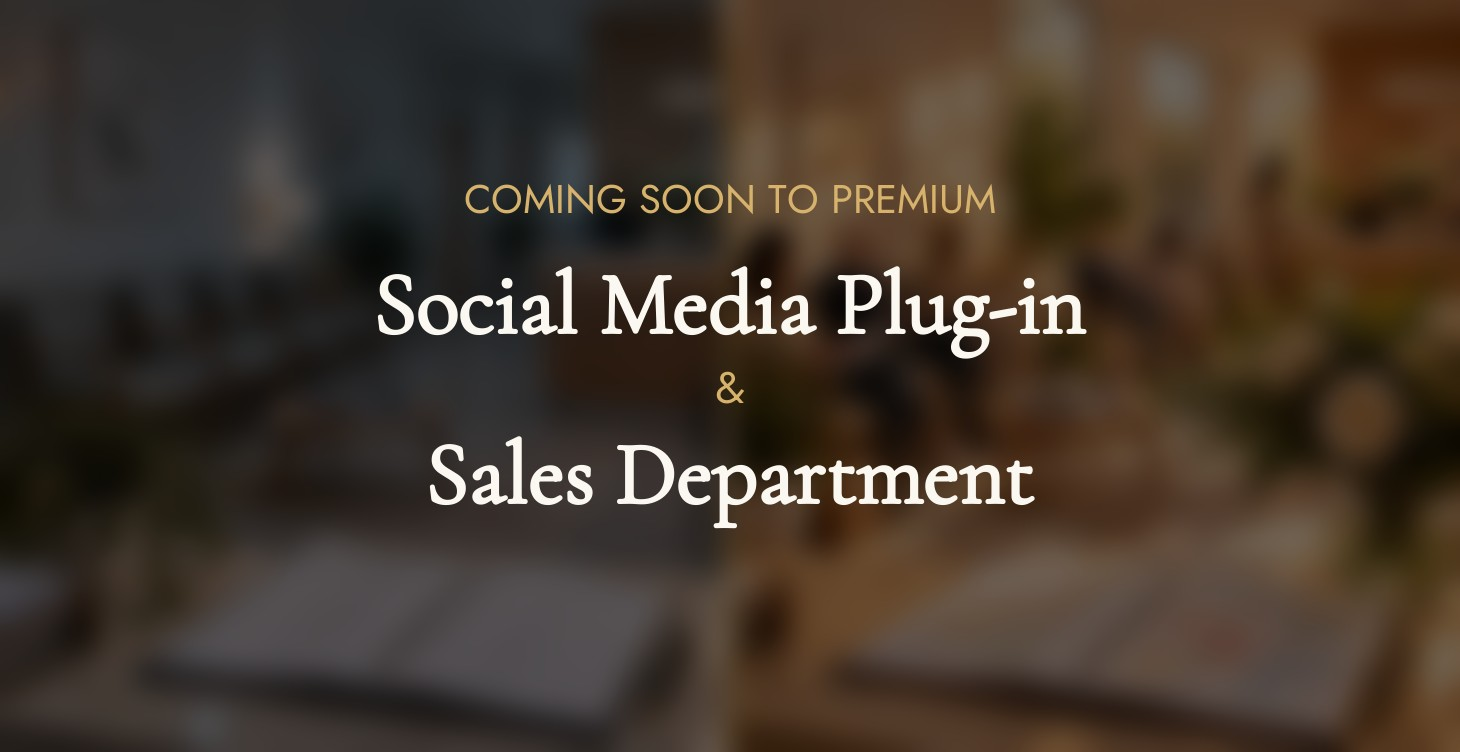
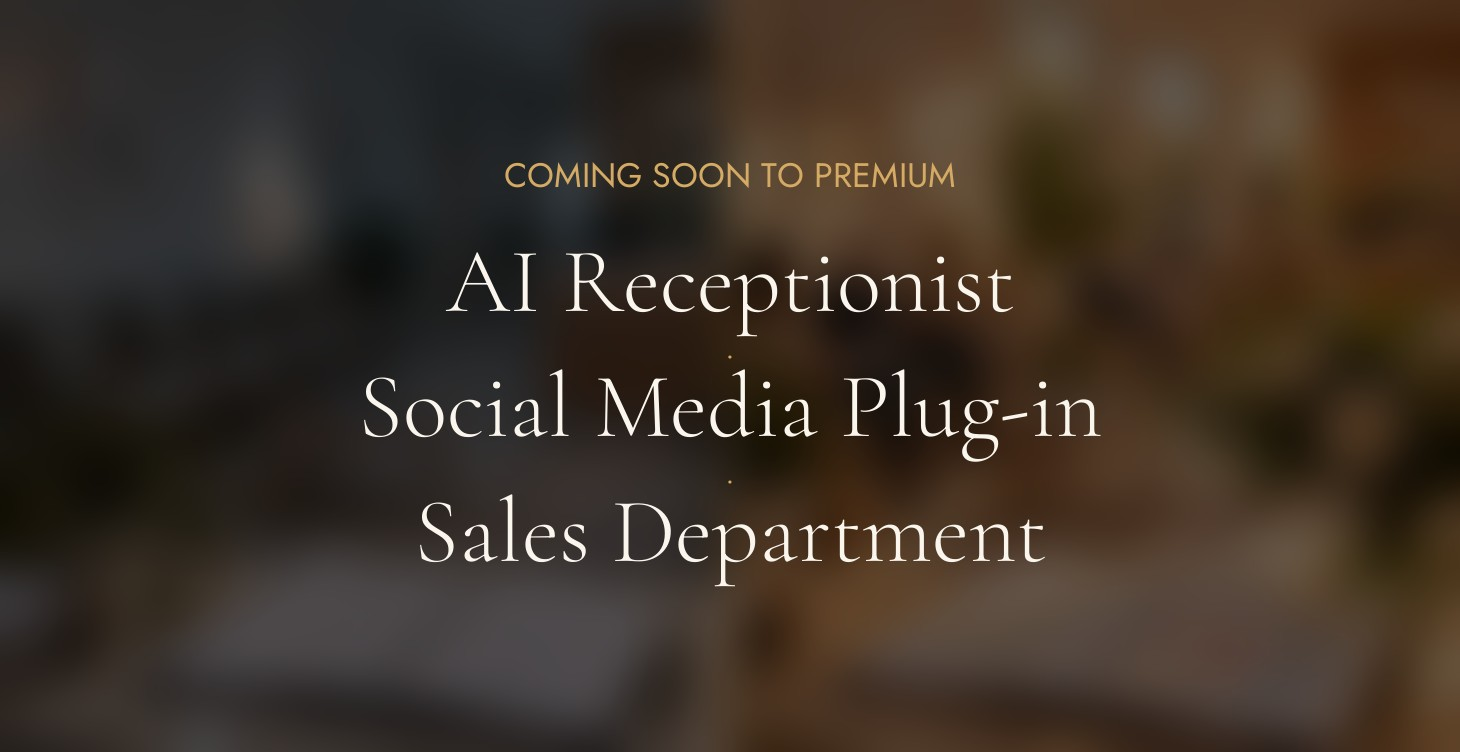
Circle: coming-soon cover now names the AI Receptionist

diff --git a/circle/build_coming_soon_cover.py b/circle/build_coming_soon_cover.py
@@ -1,0 +1,17 @@
+"""Coming-soon course cover: AI Receptionist, Social Media Plug-in, Sales Department (v2, 2026-10-02)."""
+import os
+from PIL import Image, ImageDraw, ImageFilter, ImageEnhance
+HERE=os.path.dirname(os.path.abspath(__file__))
+src=open(os.path.join(HERE,"build_art.py")).read()
+exec(src.split("def ad(")[0])  # FONTS, font, serif, sans, fill_crop, wrap, bold_serif
+W,H=1460,752
+img=fill_crop(os.path.join(HERE,"src","ba-growth.jpg"),W,H).filter(ImageFilter.GaussianBlur(22))
+img=ImageEnhance.Brightness(img).enhance(0.42)
+d=ImageDraw.Draw(img); gold=(212,170,100); white=(250,246,238)
+def centre(y,text,f,fill):
+    w=d.textlength(text,font=f); d.text(((W-w)/2,y),text,font=f,fill=fill)
+centre(150,"COMING SOON TO PREMIUM",sans(34),gold)
+for i,line in enumerate(["AI Receptionist","Social Media Plug-in","Sales Department"]):
+    centre(225+i*125,line,serif(92),white)
+    if i<2: centre(225+i*125+103,"·",serif(40),gold)
+img.convert("RGB").save(os.path.join(HERE,"skool","course-coming-soon.jpg"),quality=90); print("ok")
